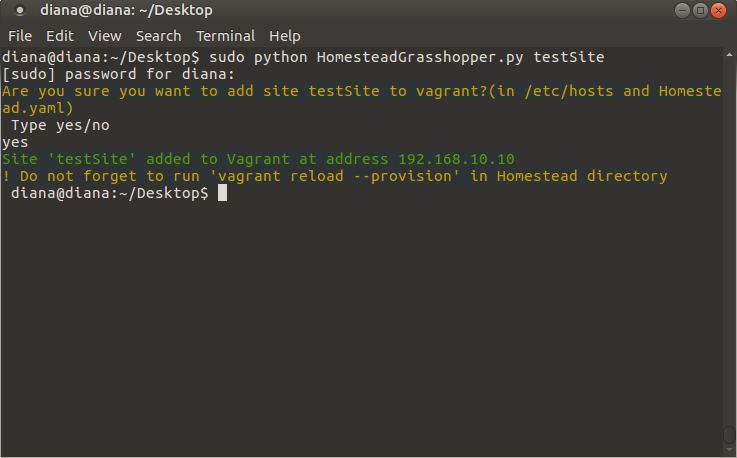
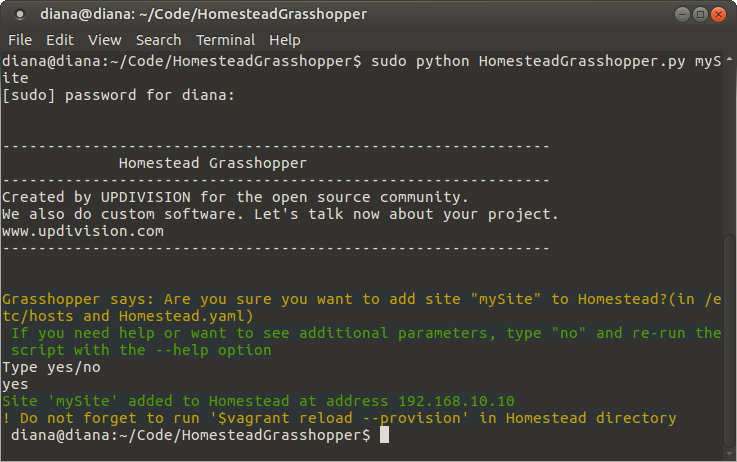
added Homestead Grasshopper code

diff --git a/HomesteadGrasshopper.py b/HomesteadGrasshopper.py
@@ -1,0 +1,277 @@
+import sys
+import os
+import textwrap
+
+
+default_config = {
+	"site_address": '192.168.10.10',
+	"hosts_path": '/etc/hosts',
+	"homestead_yaml_path": '/Homestead/Homestead.yaml',
+	"folder": 'public',
+	"site_extension": 'dev'
+}
+
+
+def add_site_to_hosts(site_name, site_extension, address, hosts_path):
+	temp_path = 'temp'
+
+	# Read from hosts, write to temp
+	hosts = open(hosts_path, 'r')
+	temp = open(temp_path, 'w')
+
+	temp.write(address + " " + site_name + "." + site_extension + "\n")
+	temp.write(hosts.read())
+
+	temp.close()
+	hosts.close()
+
+	# Read from temp, write to hosts
+	temp = open('temp', 'r')
+	hosts = open(hosts_path, 'w')
+	hosts.write(temp.read())
+	os.remove(temp_path)
+
+
+def add_site_to_homestead_yaml(name, homestead_yaml_path, folder, site_extension):
+	absolute_path = os.path.expanduser('~')
+	yaml_path = absolute_path +'/' + homestead_yaml_path
+	temp_path = 'temp'
+
+	yaml= open(yaml_path, 'r')
+	temp = open(temp_path, 'w')
+
+	vagrant_folder_path = '/home/vagrant/Code/'
+	line_cnt = 0
+	vagrant_folder_path_cnt = -1
+
+	for line in yaml: 
+		temp.write(line)
+		if 'folders:' in line:
+			vagrant_folder_path_cnt = line_cnt+2
+		if line_cnt == vagrant_folder_path_cnt:
+			vagrant_folder_path = line[line.find("to:")+3:].replace("\n", '')
+
+		if 'sites:' in line:
+			temp.write('    - map: ' + name + '.' + site_extension + '\n')
+			temp.write('      to: ' + vagrant_folder_path + '/' + name + '/' + folder +'\n')
+		line_cnt+=1
+	
+	temp.close()
+	yaml.close()
+
+	# Read from temp, write to Homestead.yaml
+	temp = open('temp', 'r')
+	yaml = open(yaml_path, 'w')
+	yaml.write(temp.read())		 
+	os.remove(temp_path)
+
+
+def read_config_parameters():
+	global default_config
+	errors = []
+	parameters = {}
+	console_parameters_cnt = 0
+
+	# Read every parameter specified in default_config_array
+	for parameter_name in default_config.keys():
+		parameter_array = filter(lambda x: '--config.' + parameter_name in x, sys.argv)
+		parameter = default_config[parameter_name]
+		if len(parameter_array)>1:
+			errors.append(parameter_name.replace('_', ' ').capitalize() + " specified multiple times")
+		if len(parameter_array)==1:
+			parameter = parameter_array[0].replace('--config.'+parameter_name+'=', '')
+			parameter.replace('"', '')
+			console_parameters_cnt += 1
+		parameters[parameter_name] = parameter
+
+	return errors, parameters, console_parameters_cnt
+
+
+def print_red(message):
+	sys.stdout.write('\x1b[0;31;40m')
+	print message
+	sys.stdout.write('\x1b[0m')
+
+
+def print_warning(message):
+	sys.stdout.write('\x1b[0;33;40m')
+	print message
+	sys.stdout.write('\x1b[0m ')
+
+
+def print_success(message):
+	sys.stdout.write('\x1b[0;32;40m')
+	print message
+	sys.stdout.write('\x1b[0m')
+
+
+def print_green(message):
+	sys.stdout.write('\x1b[0;32;40m')
+	print message
+	sys.stdout.write('\x1b[0m')
+
+
+def print_errors(errors):
+	for error in errors:
+		print_red( error)
+	print_red('Site not added to homestead. If you want to add a site to Homestead re-run the script.')
+
+
+def files_exist(hosts_path, homestead_yaml_path):
+	try:
+		hosts = open(hosts_path, 'r')
+		yaml = open(os.path.expanduser('~') + homestead_yaml_path, 'r')
+
+
+	except Exception as exception:
+		print_red(exception)
+		return False
+
+	hosts.close()
+	yaml.close()
+
+	return True
+
+
+def print_help():
+	wrapper = textwrap.TextWrapper(subsequent_indent='\t')
+	print("\n")
+	print("                  ***                   ")
+	print("                *******                   ")
+	print("                  ***                   ")
+	print("\n")
+	print("-------------------------------------------------------------")
+	print_warning("   INSTRUCTIONS for using Homestead Grasshopper             ")
+	print("-------------------------------------------------------------")
+	print("Created by UPDIVISION for the open source community.           ")
+	print("We also do custom software. Let's talk now about your project.           ")
+	print("www.updivision.com           ")
+	print("-------------------------------------------------------------")
+	print("\n")
+	print_green("(1) QUICK COMMAND for adding a site to Homestead:")
+	print("\n")
+	print('Linux/macOS:')
+	print('    $sudo python HomesteadGrasshopper.py your_site_name')
+	print('Windows:')
+	print('    $python HomesteadGrasshopper.py your_site_name')
+	print("\n")
+	print("This will do:")
+	print('    add the site name and default Homestead address in the "hosts" file')
+	print("    add file paths and configurations in Homestead.yaml")
+	print("\n")
+	print_green("(2) CUSTOMIZATION PARAMETERS. You also have the possibility to use these additional parameters:")
+	print('    --config.site_address="[your_site_address]')
+	print('    --config.hosts_path="[etc_hosts_path]"')
+	print('    --config.homestead_yaml_path="[yaml_path]')
+	print('    --config.folder="[folder_name]"')
+	print('    --config.site_extension="[extension_name]"')
+	print("\n")
+	print("EXAMPLE:")
+	print(wrapper.fill('    $sudo python HomesteadGrasshopper.py your_site_name --config.site_address="192.168.10.10"' +
+		' --config.hosts_path="/etc/.hosts" '+
+		' --config.homestead_yaml_path="Homestead/Homestead.yaml"'+
+		' --config.folder="public"' +
+		' --config.site_extension="dev"'))
+	print("\n")
+	print_green('Note: If you are using Windows, do not use the "sudo" command, ' 
+		+ 'just type $python HomesteadGrasshopper.py your_site_name')
+	print("\n")
+	print_warning("Warning!!! Do not forget to run '$vagrant reload --provision' in Homestead directory after site added to homestead")
+	print("\n")
+	print("                  ***                   ")
+	print("                *******                   ")
+	print("                  ***                   ")
+	print("\n")
+	
+	
+
+if __name__ == "__main__":
+   	if len(sys.argv)<2:
+	   print_errors(["No site name specified"])
+	   print("")
+	   exit()
+
+	if "--help" in sys.argv:
+		print_help()
+		print("")
+		exit()
+
+	site_name = sys.argv[1]
+
+	if "--config." in site_name:
+		print_errors(["No site name specified"])
+		print("")
+		exit()
+
+
+	print("\n")
+	print("-------------------------------------------------------------")
+	print("             Homestead Grasshopper             ")
+	print("-------------------------------------------------------------")
+	print("Created by UPDIVISION for the open source community.           ")
+	print("We also do custom software. Let's talk now about your project.           ")
+	print("www.updivision.com           ")
+	print("-------------------------------------------------------------")
+	print("\n")
+
+
+
+	config_parameters_result = read_config_parameters()
+	config_parameters_errors = config_parameters_result[0]
+	config_parameters = config_parameters_result[1]
+	console_parameters_cnt = config_parameters_result[2]
+
+	hosts_path = config_parameters["hosts_path"]
+	site_address = config_parameters["site_address"]
+	homestead_yaml_path = config_parameters["homestead_yaml_path"]
+	folder = config_parameters["folder"]
+	site_extension = config_parameters["site_extension"]
+
+	if len(config_parameters_errors):
+		print_errors(config_parameters_errors)
+		print("")
+		exit()
+
+	if(console_parameters_cnt + 2 < len(sys.argv)):
+		print_errors(["Some config parameters are not formatted properly. Try --help command"])
+		print("")
+		exit()
+
+	print_warning('Grasshopper says: Are you sure you want to add site "' + 
+		site_name + '" to Homestead?(in /etc/hosts and Homestead.yaml)')
+
+	print_green('If you need help or want to see additional parameters, type "no" and re-run the script with the --help option')
+	option = raw_input("Type yes/no\n") 
+
+	if option == "yes":
+		if files_exist(hosts_path, homestead_yaml_path):
+			try:
+				add_site_to_hosts(site_name, site_extension, site_address, hosts_path)
+				add_site_to_homestead_yaml(site_name, homestead_yaml_path, folder, site_extension)
+
+			except Exception as exception:
+				print_red(exception)
+				print_red('Site not added to Homestead. If you want to add a site to Homestead re-run the script.')
+				print_red('If you need help or want to see additional parameters re-run the script with the --help option.')
+				print("")
+				exit()
+
+			print_success("Site '" + site_name + "' added to Homestead at address " + site_address)
+			print_warning("! Do not forget to run '$vagrant reload --provision' in Homestead directory")
+
+		else:
+			print_red('Site not added to Homestead. If you want to add a site to Homestead re-run the script.')
+			print_red('If you need help or want to see additional parameters re-run the script with the --help option.')
+
+			print("")
+			exit()
+
+	if option != "no" and option != "yes":
+		print("Wrong option")
+		print("Program exited")
+		print("")
+
+	if option == "no":
+		print_red('Site not added to Homestead. If you want to add a site to Homestead re-run the script.')
+		print_red('If you need help or want to see additional parameters re-run the script with the --help option.')
+		print("")
